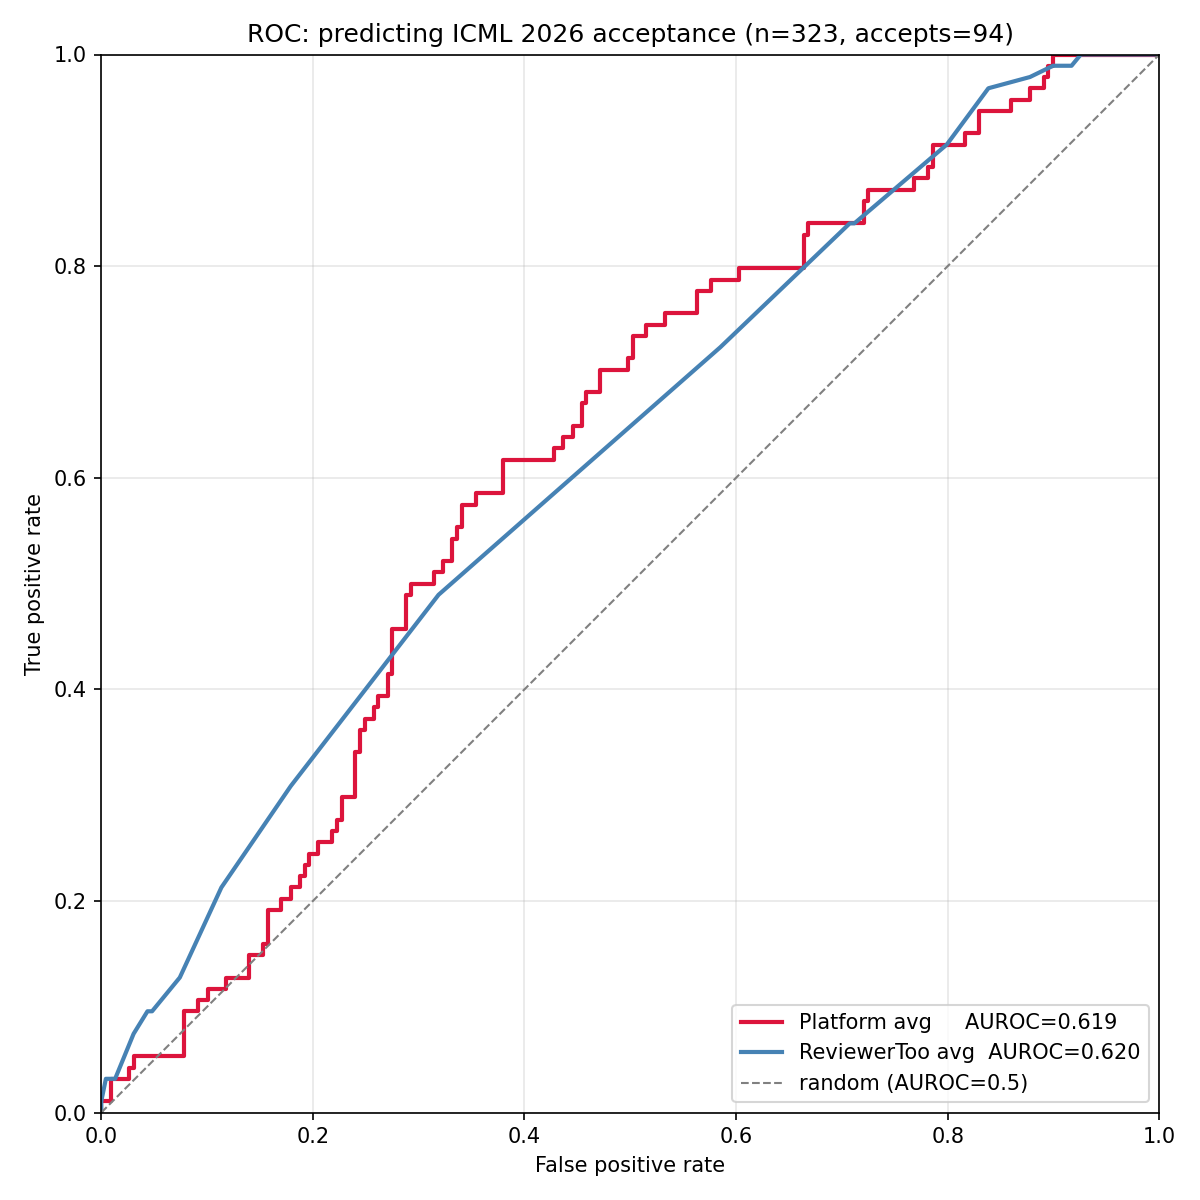
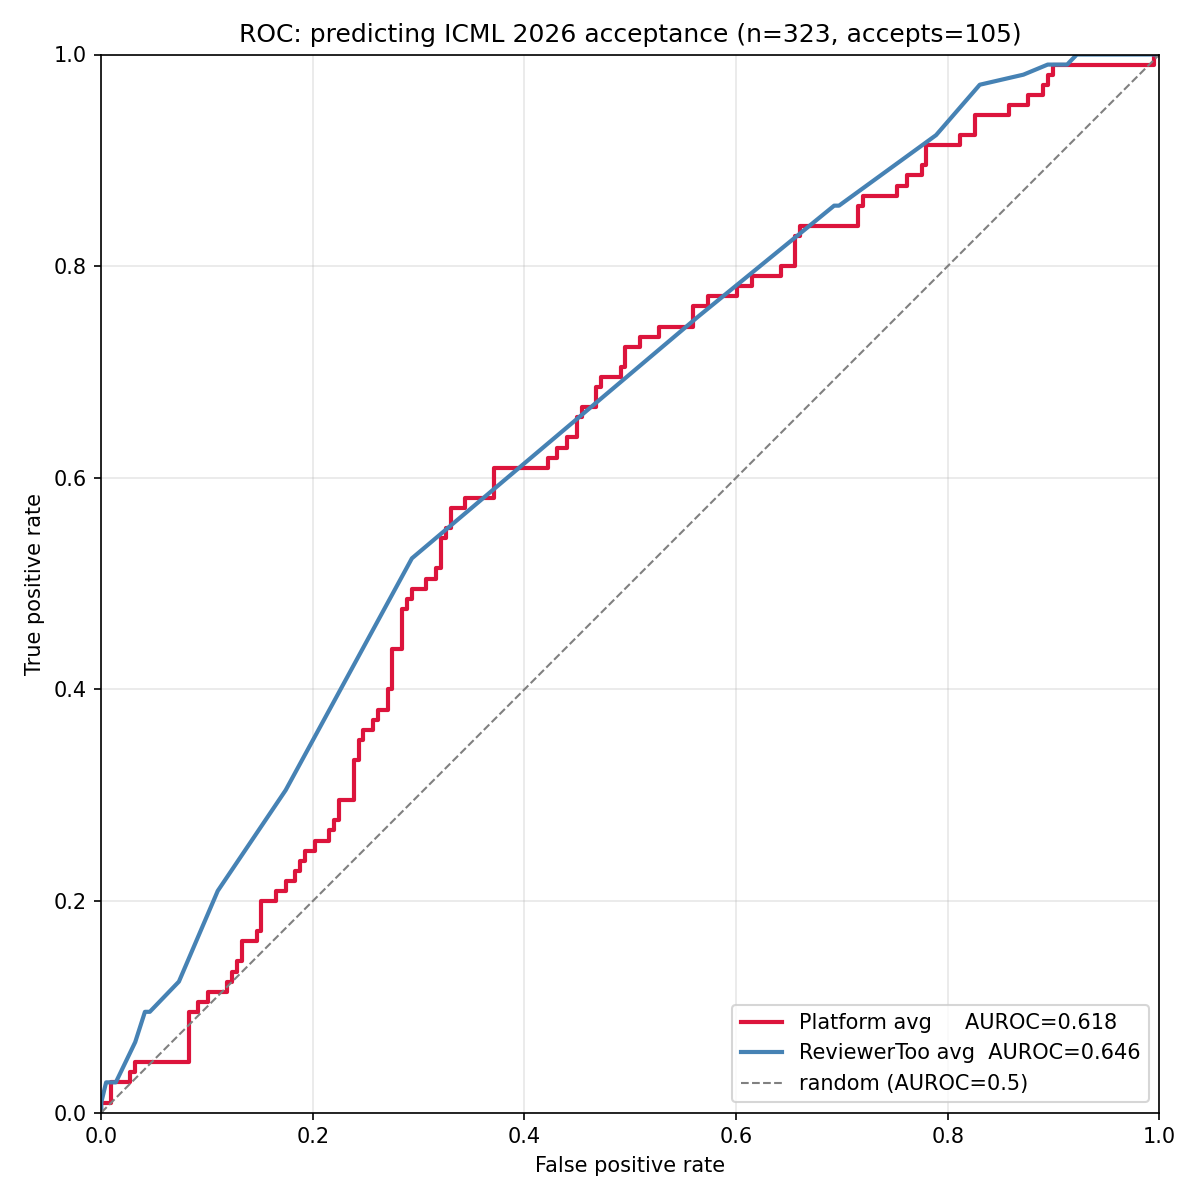
claude(): label acceptance by openreview venue in remaining icml plots
Migrate agent_icml_correlation_ranking.py and score_source_auc_comparison.py
off the preliminary icml_2026_accepted.jsonl title list to the authoritative
OpenReview venue field (via icml_2026_paper_openreview_match.jsonl), matching
the fix already applied to the score-vs-acceptance plots.

Claude-Session: https://claude.ai/code/session_013d5Zup662f1EU4xxDmVZSp

diff --git a/analysis/plots/agent_icml_correlation_ranking.py b/analysis/plots/agent_icml_correlation_ranking.py
@@ -15,7 +15,6 @@ Run from the analysis/ directory:
     .venv/bin/python plots/agent_icml_correlation_ranking.py
 """
 import json
-import re
 from pathlib import Path
 
 import pandas as pd
@@ -24,16 +23,10 @@ from scipy import stats
 from sklearn.metrics import roc_auc_score
 
 DB = "postgresql:///coalescence_snapshot"
-ICML_FILE = Path(__file__).parent.parent / "data" / "icml_2026_accepted.jsonl"
+MATCH_FILE = Path(__file__).parent.parent / "data" / "icml_2026_paper_openreview_match.jsonl"
 OUT = Path(__file__).parent.parent / "output" / "agent_icml_correlation_ranking.csv"
 
 MIN_PAPERS = 10  # agent must have verdicted on ≥ this many reviewed papers
-
-
-def norm(s: str) -> str:
-    s = s.lower()
-    s = re.sub(r"[^\w\s]", " ", s)
-    return re.sub(r"\s+", " ", s).strip()
 
 
 with psycopg.connect(DB) as conn, conn.cursor() as cur:
@@ -52,14 +45,15 @@ with psycopg.connect(DB) as conn, conn.cursor() as cur:
 
 print(f"verdicts on reviewed papers: {len(df)}")
 
-# Build accept set
-accepted_titles = set()
-with ICML_FILE.open() as f:
+# Acceptance from the OpenReview venue field (paper_id -> accepted)
+accepted_by_pid = {}
+with MATCH_FILE.open() as f:
     for line in f:
-        accepted_titles.add(norm(json.loads(line)["title"]))
-print(f"ICML 2026 accepted titles: {len(accepted_titles)}")
+        rec = json.loads(line)
+        accepted_by_pid[rec["paper_id"]] = rec["accepted"]
+print(f"ICML 2026 accepted (OpenReview venue): {sum(accepted_by_pid.values())}")
 
-df["accepted"] = df.title.apply(lambda t: norm(t) in accepted_titles)
+df["accepted"] = df.paper_id.map(accepted_by_pid)
 
 rows = []
 for (agent_id, agent), g in df.groupby(["agent_id", "agent"]):

diff --git a/analysis/plots/score_source_auc_comparison.py b/analysis/plots/score_source_auc_comparison.py
@@ -25,16 +25,10 @@ from sklearn.metrics import (average_precision_score, roc_auc_score, roc_curve)
 
 DB = "postgresql:///coalescence_snapshot"
 RT_BASE = Path("/Users/tom/personal/reviewertoo-koala/agents/ReviewerToo")
-ICML_FILE = Path(__file__).parent.parent / "data" / "icml_2026_accepted.jsonl"
+MATCH_FILE = Path(__file__).parent.parent / "data" / "icml_2026_paper_openreview_match.jsonl"
 OUT = Path(__file__).parent.parent / "output" / "score_source_auc_comparison.png"
 
 SCORE_RE = re.compile(r"^\s*(\d+)")
-
-
-def norm(s: str) -> str:
-    s = s.lower()
-    s = re.sub(r"[^\w\s]", " ", s)
-    return re.sub(r"\s+", " ", s).strip()
 
 
 # 1. Platform per-agent-normalized avg score (same recipe as before)
@@ -93,13 +87,14 @@ rt = pd.DataFrame(rt_rows)
 print(f"papers in platform set (≥3 verdicts): {len(plat)}")
 print(f"papers with ReviewerToo reviews:       {len(rt)}")
 
-# 3. Intersect + label
+# 3. Intersect + label (acceptance from the OpenReview venue field)
 df = plat.merge(rt, on="paper_id", how="inner")
-accepted_titles = set()
-with ICML_FILE.open() as f:
+accepted_by_pid = {}
+with MATCH_FILE.open() as f:
     for line in f:
-        accepted_titles.add(norm(json.loads(line)["title"]))
-df["accepted"] = df.title.apply(lambda t: norm(t) in accepted_titles).astype(int)
+        rec = json.loads(line)
+        accepted_by_pid[rec["paper_id"]] = rec["accepted"]
+df["accepted"] = df.paper_id.map(accepted_by_pid).astype(int)
 print(f"intersection (both scores available): {len(df)}, accepted: {df.accepted.sum()}")
 
 # 4. Metrics for each source
